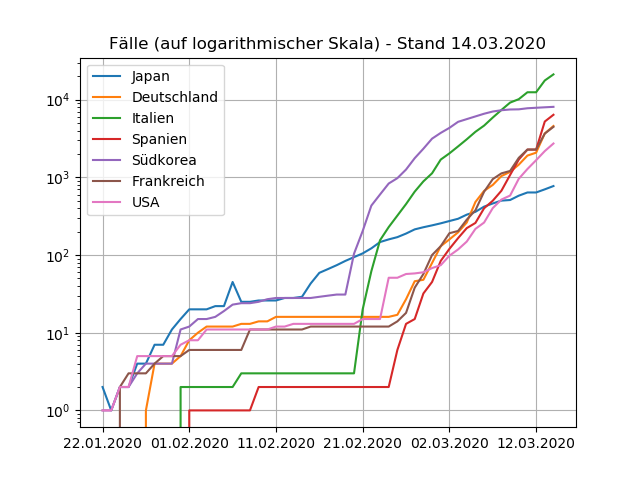
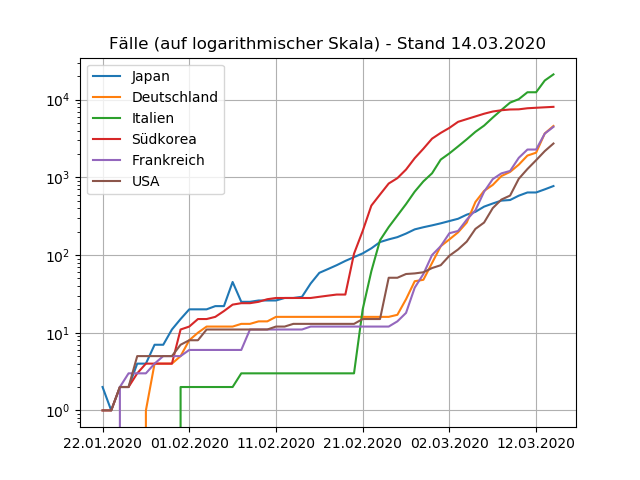
moved legend; removed Spain; line for Germany on top

diff --git a/plot.py b/plot.py
@@ -6,7 +6,7 @@ import matplotlib.pyplot as plt
 from scipy.optimize import curve_fit
 import numpy as np
 
-countries = ['Germany', 'Italy', 'Korea, South', 'Spain', 'France', 'US', 'Japan'] # 'China'
+countries = ['Germany', 'Italy', 'Korea, South', 'France', 'US', 'Japan'] # 'China', 'Spain'
 epsilon = 1e-6
 translation = {'Germany': 'Deutschland',
         'Italy': 'Italien',
@@ -113,10 +113,10 @@ for j, country in enumerate(countries):
 #        else: # do not align start
 #            fit_over_time.append([np.nan, np.nan])
     fit_over_time = np.array(fit_over_time)
-    axT.plot(range(len(fit_over_time)), 1 / fit_over_time[:, 0], label=country)
+    axT.plot(range(len(fit_over_time)), 1 / fit_over_time[:, 0], label=country, zorder=-j)
 
 # formatting
-axT.legend()
+axT.legend(loc=2)
 axT.set_xlim([0, xlim_max + 5])
 axT.set_ylim([-1, 15])
 axT.set_xlabel('Tage seit Fälle > ' + str(cases_min))
